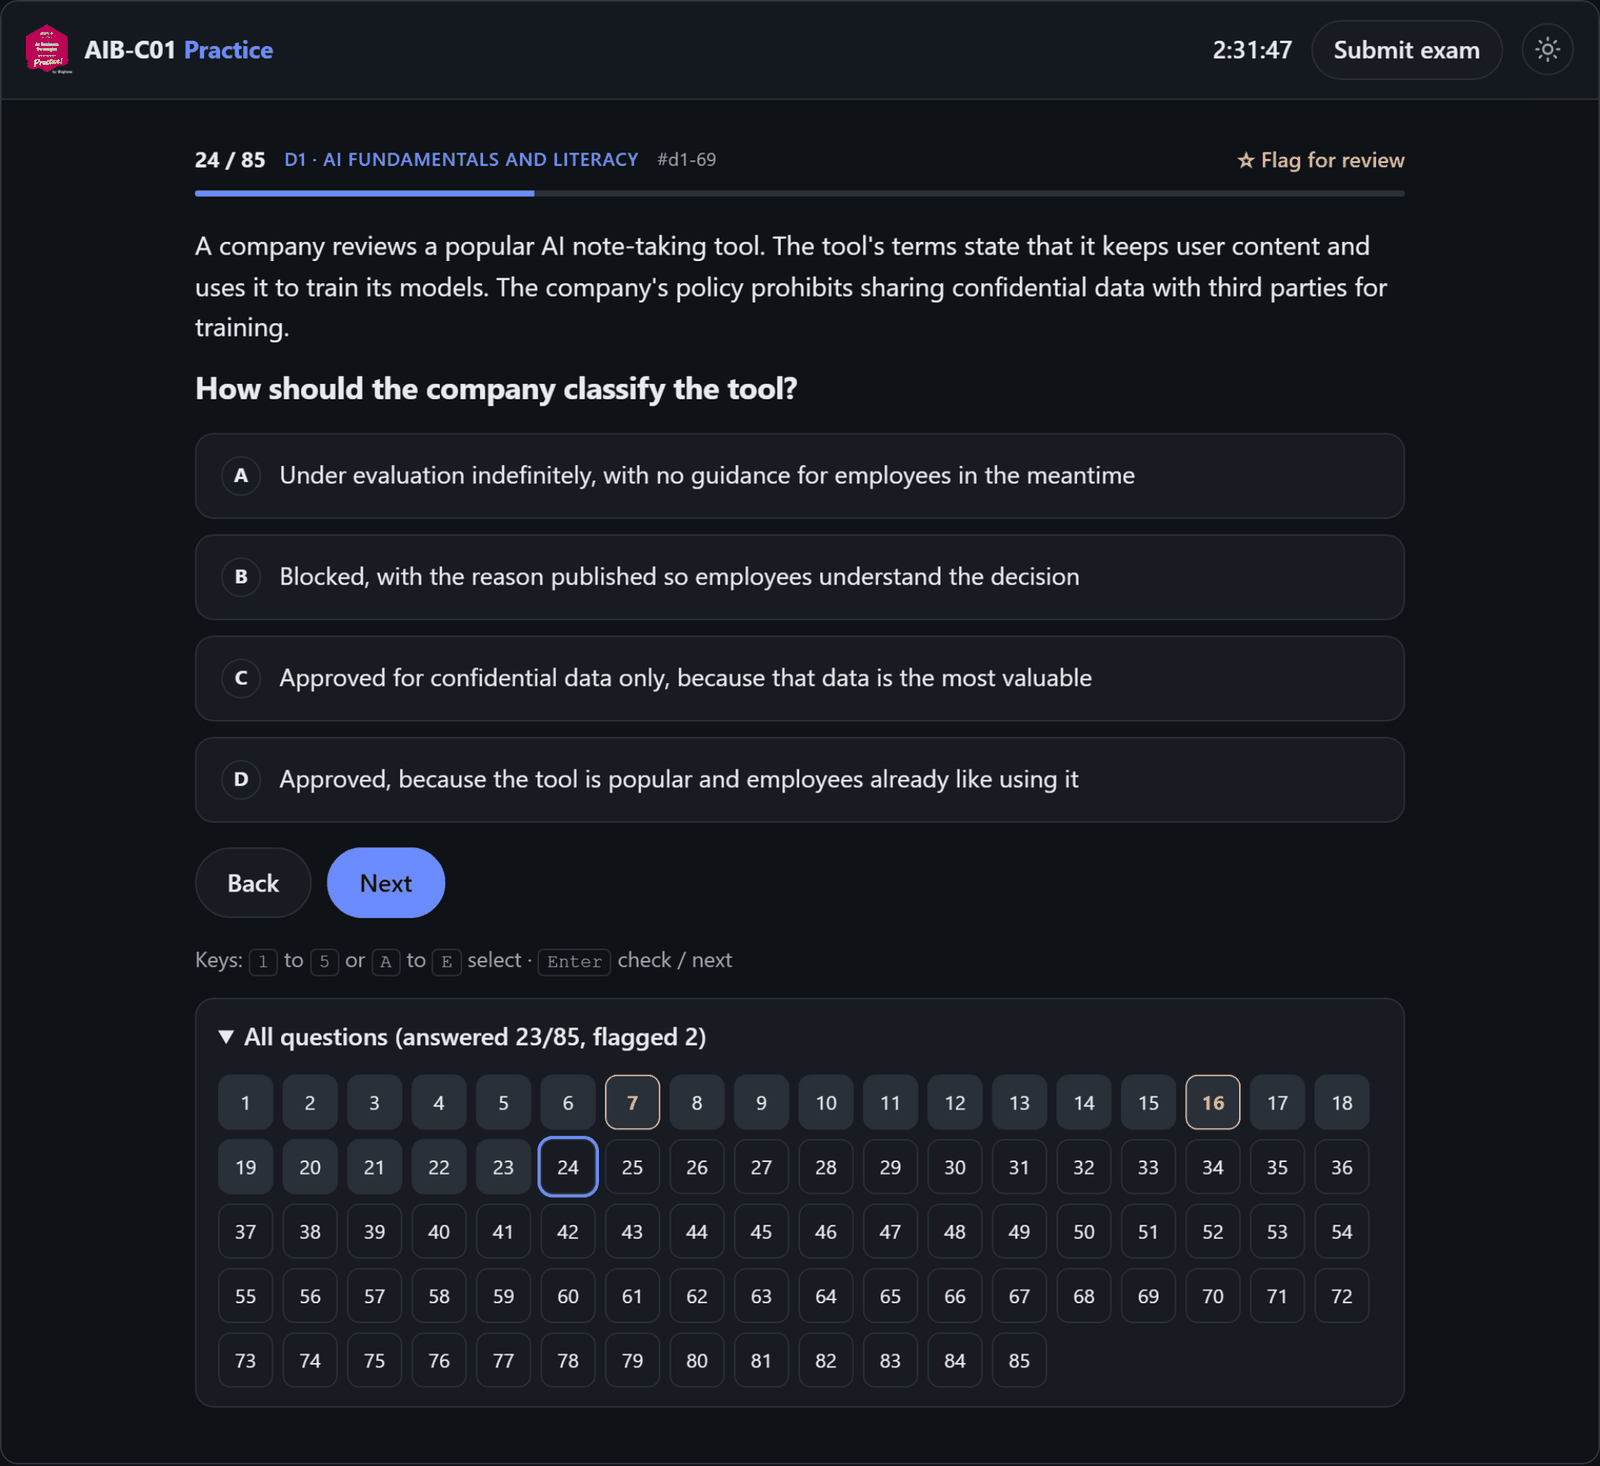
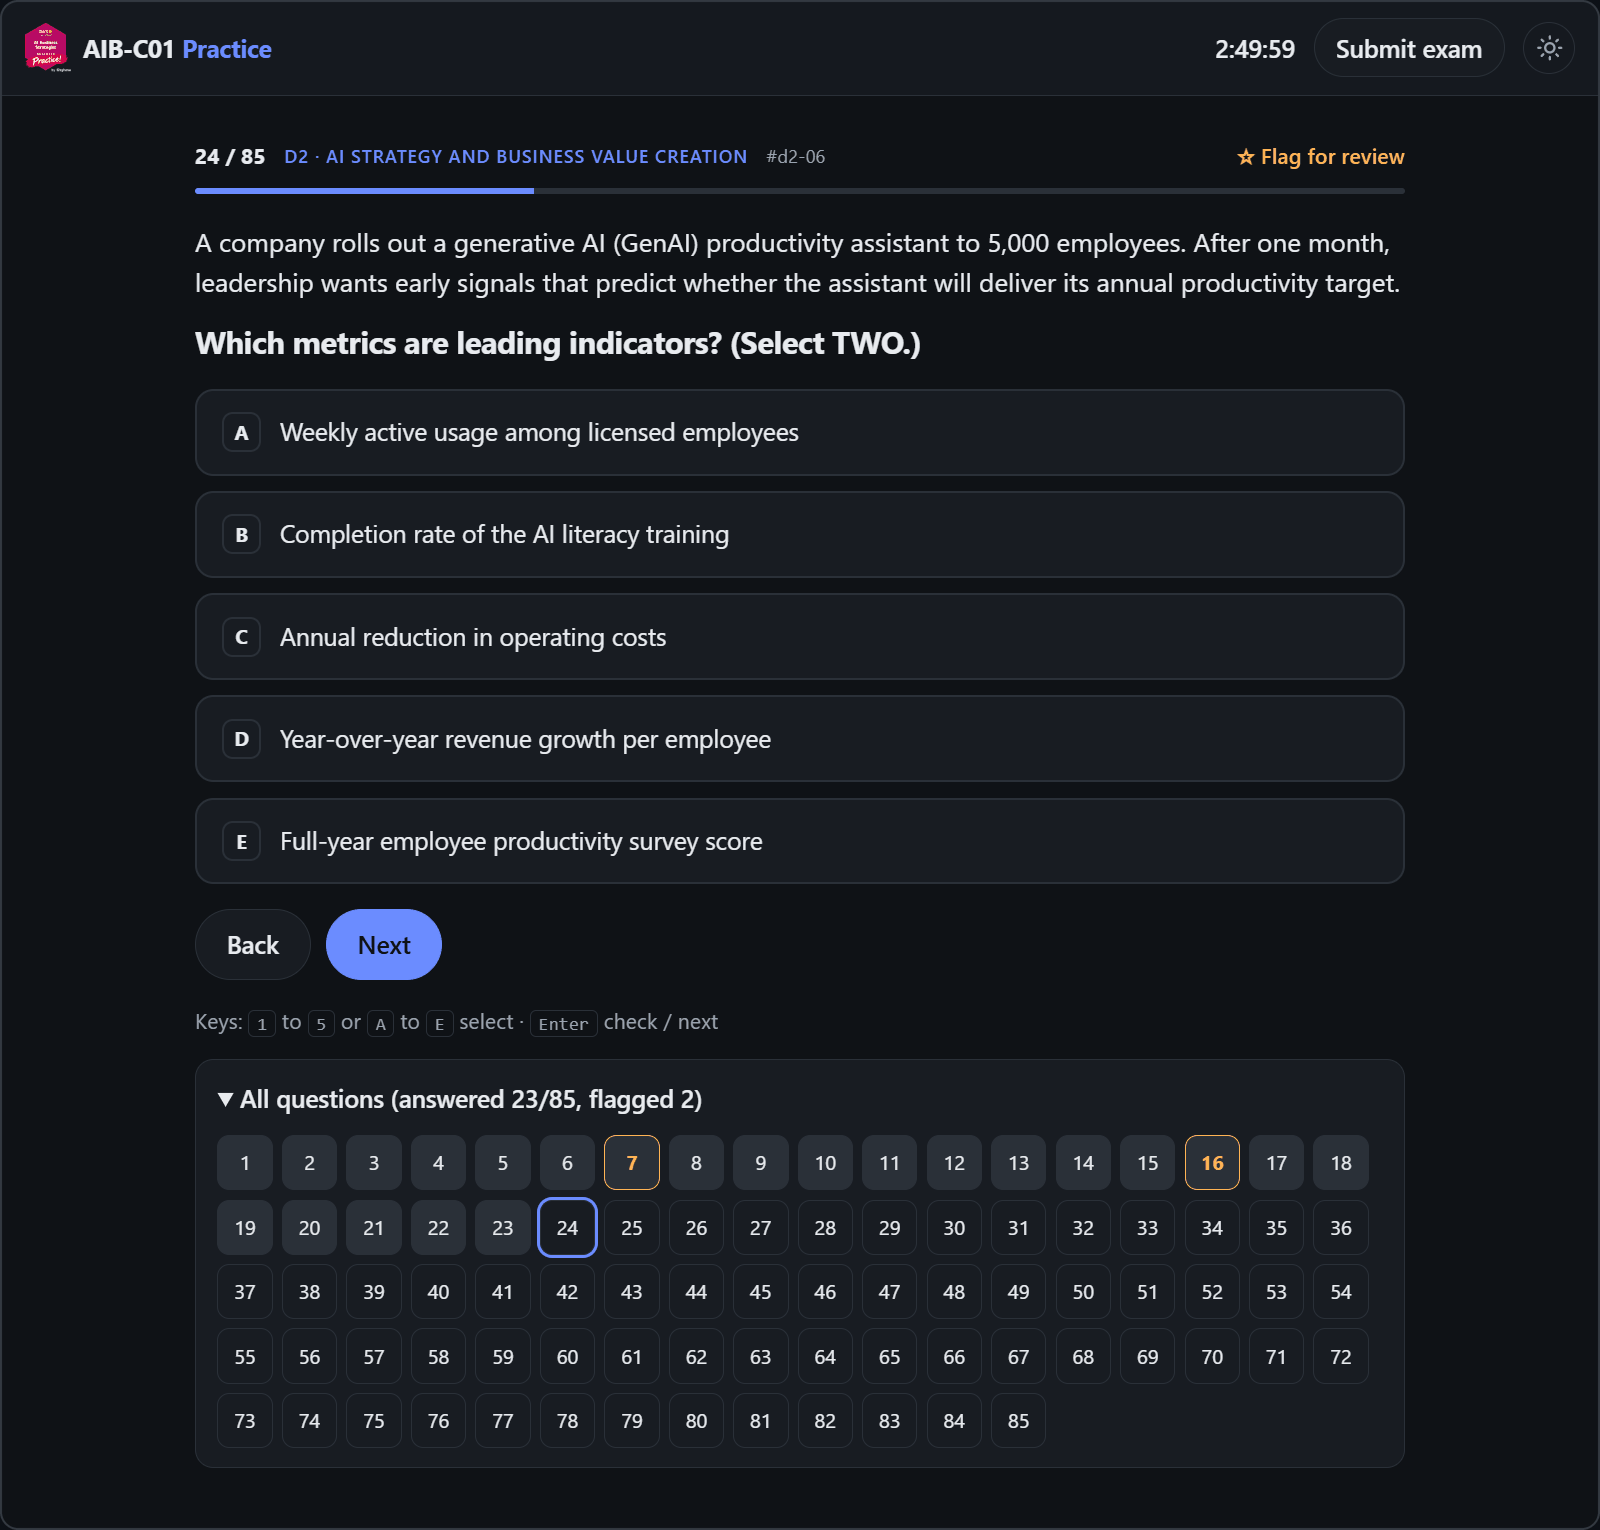
Fix invisible mock timer in light theme and phone overflow; share stylesheet with SOA-C03
The header redefined the color tokens but never set its own color, so the
mock exam timer inherited the body's dark text and was nearly invisible on
the dark bar in the light theme. The header now sets color: var(--ink).

Also from QA of the SOA-C03 site, now using the same style.css:
- overflow-wrap: anywhere on main, so long AWS identifiers wrap inside
  options on phones instead of scrolling the page sideways.
- During a session on phones, hide the "Practice" label and use an 8px
  column gap so brand, timer, submit and theme fit on one row at 375px.

Mock screenshots retaken so the timer is readable.

diff --git a/style.css b/style.css
@@ -24,7 +24,7 @@ body { margin: 0; background: var(--bg); color: var(--ink); font: 100%/1.55 syst
 button, a { touch-action: manipulation; }
 :focus-visible { outline: 2px solid var(--accent); outline-offset: 2px; }
 /* Translucent bar: content scrolls under it instead of being cut off by an opaque strip. */
-header { display: flex; align-items: center; gap: 8px 12px; padding: 12px 16px; border-bottom: 1px solid var(--line); background: var(--glass); -webkit-backdrop-filter: saturate(180%) blur(20px); backdrop-filter: saturate(180%) blur(20px); position: sticky; top: 0; z-index: 2; }
+header { display: flex; align-items: center; gap: 8px 12px; padding: 12px 16px; border-bottom: 1px solid var(--line); background: var(--glass); -webkit-backdrop-filter: saturate(180%) blur(20px); backdrop-filter: saturate(180%) blur(20px); position: sticky; top: 0; z-index: 2; color: var(--ink); }
 header a { color: var(--ink); text-decoration: none; font-weight: 700; }
 .brand { display: flex; align-items: center; margin-right: 8px; letter-spacing: -.01em; }
 .brand img { margin-right: 8px; }
@@ -46,7 +46,8 @@ header .icon:hover { color: var(--ink); border-color: var(--accent); }
 header .icon svg { width: 18px; height: 18px; fill: none; stroke: currentColor; stroke-width: 2; stroke-linecap: round; stroke-linejoin: round; }
 /* The button shows where it takes you: a moon in the light theme, a sun in the dark theme. */
 :root[data-theme="dark"] #theme .moon, :root:not([data-theme="dark"]) #theme .sun { display: none; }
-main { max-width: 820px; margin: 0 auto; padding: 28px 16px 48px; }
+/* anywhere (not break-word) so long AWS identifiers such as policy names and SSM paths can wrap inside flex options on phones. */
+main { max-width: 820px; margin: 0 auto; padding: 28px 16px 48px; overflow-wrap: anywhere; }
 footer { text-align: center; color: var(--muted); font-size: .8125rem; line-height: 1.8; padding: 0 16px 32px; }
 main a, footer a { color: var(--accent); }
 /* Tracking is size-specific: large type tightens, small caps loosen, body stays at 0. */
@@ -142,11 +143,13 @@ details li .why { font-weight: 400; color: var(--muted); }
 kbd { font: .75rem ui-monospace, monospace; border: 1px solid var(--line); border-radius: 4px; padding: 1px 5px; }
 @media (max-width: 520px) {
   h1 { font-size: 1.625rem; } h2 { font-size: 1.125rem; } .score { font-size: 2.75rem; }
-  header { flex-wrap: wrap; padding: 10px 12px; }
+  header { flex-wrap: wrap; padding: 10px 12px; column-gap: 8px; }
   body:not(.session) header { position: static; }
   header nav { order: 3; width: 100%; }
   header nav a { flex: 1; min-height: 44px; display: grid; place-items: center; padding: 0; }
   .gh span { display: none; }
+  /* During a timed session the exam code is enough, so brand, timer, submit and theme stay on one row. */
+  body.session .brand span { display: none; }
   body.session .nav { position: sticky; bottom: 0; z-index: 1; margin: 16px -16px 0; padding: 10px 16px calc(10px + env(safe-area-inset-bottom)); background: var(--glass); -webkit-backdrop-filter: saturate(180%) blur(20px); backdrop-filter: saturate(180%) blur(20px); border-top: 1px solid var(--line); }
   body.session .nav .btn { flex: 1; }
 }
